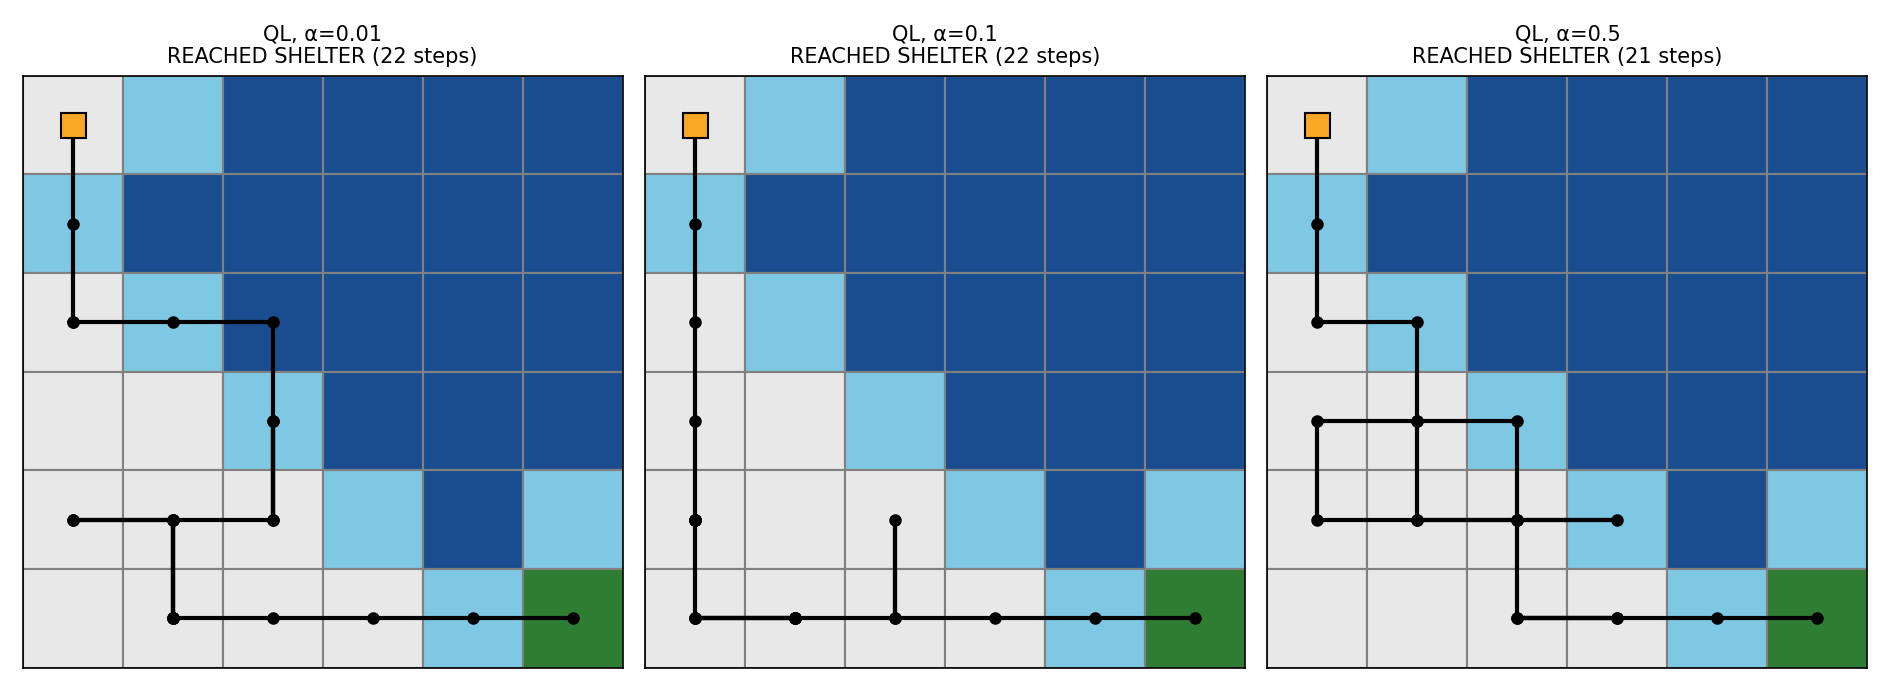
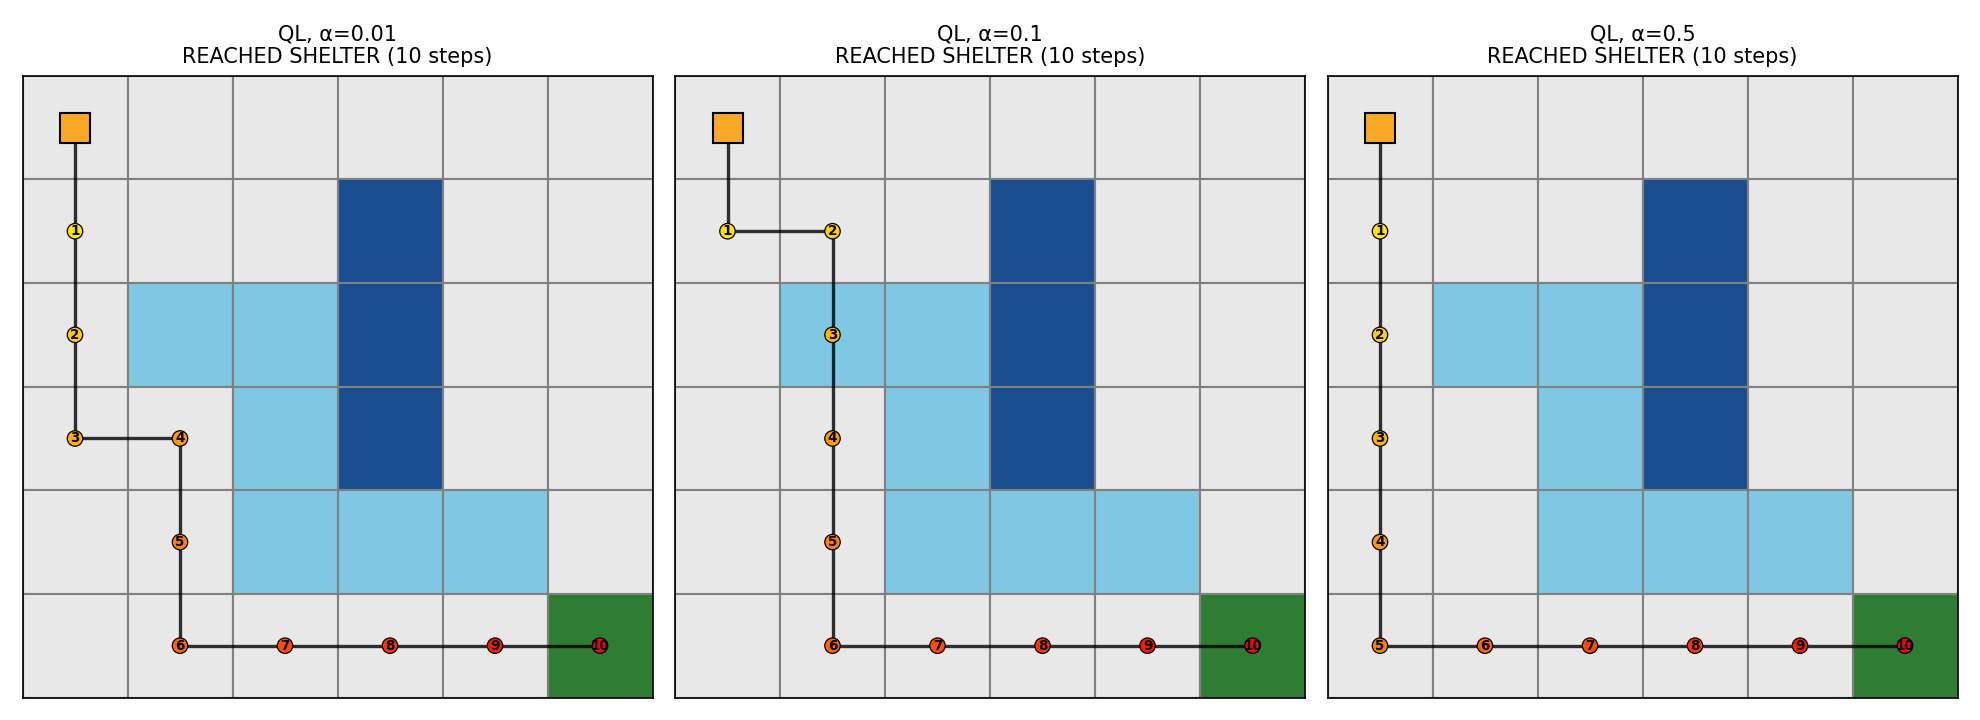
lab 4 start

diff --git a/lab/lab_4/flood_rescue_rl.py b/lab/lab_4/flood_rescue_rl.py
@@ -1,38 +1,34 @@
 """
-Flood Rescue GridWorld RL Assignment
---------------------------------------
-Problem: A rescue boat must navigate a 6x6 flooded neighborhood (inspired by
-Dhaka monsoon flooding) from a starting point to a shelter, while water
-keeps RISING the longer the agent takes.
+Static Flood Rescue GridWorld - RL Assignment
+-------------------------------------------------
+Scenario: A rescue boat must travel from a relief camp to an evacuation
+shelter across a flooded Dhaka neighborhood. Unlike a rising-flood version,
+the flood extent here is FIXED (static) - some cells are permanently deep
+water (impassable/dangerous), some are shallow water (passable but slower/
+riskier), and the rest are dry land. This keeps the environment a simple,
+standard, stationary MDP: state = just the boat's grid position.
 
-Environment design:
-- Grid: 6x6 cells
-- Start: top-left (0,0)  -> the rescue boat's launch point
-- Shelter (goal): bottom-right (5,5) -> reward +10, terminal, always safe
-- Flood source: a fixed cell where flooding originates
-- Flood grows outward by 1 "ring" (Manhattan distance) every timestep the
-  agent takes. So the flood_stage increases every action, capped at MAX_STAGE.
-- Cell types (computed from distance to flood source, given current stage):
-    deep water    -> distance <= stage   -> TERMINAL, reward -10 (boat capsizes)
-    shallow water -> distance == stage+1 -> reward -0.3 (passable but risky/slow)
-    dry land      -> otherwise            -> reward -0.04 (normal cost)
+Grid legend:
+    S = start (relief camp)
+    G = goal (evacuation shelter)
+    X = deep water (terminal, boat capsizes, reward -10)
+    ~ = shallow water (passable, reward -0.3)
+    . = dry land (passable, reward -0.04)
 
-State = (row, col, flood_stage)  -- this keeps the environment Markovian:
-given the current state and action, the next state and reward are fully
-determined (flood_stage always advances by exactly 1 per action, capped).
+  S . . . . .
+  . . ~ X ~ .
+  . ~ X X X ~
+  . ~ X X X ~
+  . . ~ X ~ .
+  . . . . . G
 
-Because flood_stage saturates at MAX_STAGE, this is a valid stationary MDP
-(no need for special finite-horizon handling) so normal discounted
-Value Iteration and normal Q-learning both apply directly.
-
-We compare Value Iteration and Q-Learning across different discount factors
-(gamma) and visualize the ACTUAL PATH each resulting policy takes from start
-to goal, plus how much of the grid is flooded by the time it gets there.
+We solve this MDP with Value Iteration and Q-Learning, and compare the
+results across different discount factors (gamma) and, for Q-learning,
+different learning rates (alpha).
 """
 
 import numpy as np
 import matplotlib.pyplot as plt
-import matplotlib.patches as mpatches
 import random
 
 # ---------------------------------------------------------
@@ -41,10 +37,24 @@ import random
 GRID_SIZE = 6
 START = (0, 0)
 GOAL = (5, 5)
-FLOOD_SOURCE = (1, 4)  # off the main diagonal, threatens a shortcut without ever reaching start/goal
-FLOOD_INTERVAL = 3    # flood advances by 1 ring every this many agent actions
-MAX_STAGE = 3         # flood radius caps here (source is distance 5 from both start & goal, so they stay dry)
-T_MAX = 20            # elapsed-steps counter saturates here (state stays finite)
+
+DEEP_WATER = {
+    (1, 3),
+    (2, 3),
+    (3, 3)
+}
+
+SHALLOW_WATER = {
+    (2, 1),
+    (2, 2),
+    (3, 2),
+    (4, 2),
+    (4, 3),
+    (4, 4)
+}
+
+# DEEP_WATER = {(1, 3), (2, 2), (2, 3), (2, 4), (3, 2), (3, 3), (3, 4), (4, 3)}
+# SHALLOW_WATER = {(1, 2), (1, 4), (2, 1), (2, 5), (3, 1), (3, 5), (4, 2), (4, 4)}
 
 ACTIONS = ["up", "down", "left", "right"]
 ACTION_MOVES = {
@@ -55,42 +65,27 @@ ACTION_MOVES = {
 }
 
 STEP_REWARD = -0.04
-SHALLOW_REWARD = -0.3
+SHALLOW_REWARD = -0.05 #0.3
 DEEP_REWARD = -10
 GOAL_REWARD = 10
 
 
-def manhattan(a, b):
-    return abs(a[0] - b[0]) + abs(a[1] - b[1])
-
-
-def stage_from_t(t):
-    return min(t // FLOOD_INTERVAL, MAX_STAGE)
-
-
-def cell_type(pos, t):
-    """Return 'deep', 'shallow', or 'dry' for a cell at a given elapsed-time t."""
+def cell_type(pos):
     if pos == GOAL:
         return "goal"
-    stage = stage_from_t(t)
-    d = manhattan(pos, FLOOD_SOURCE)
-    if d <= stage:
+    if pos in DEEP_WATER:
         return "deep"
-    elif d == stage + 1:
+    if pos in SHALLOW_WATER:
         return "shallow"
-    else:
-        return "dry"
+    return "dry"
 
 
 def all_states():
-    return [(r, c, t) for r in range(GRID_SIZE) for c in range(GRID_SIZE)
-            for t in range(T_MAX + 1)]
+    return [(r, c) for r in range(GRID_SIZE) for c in range(GRID_SIZE)]
 
 
 def is_terminal(state):
-    r, c, t = state
-    pos = (r, c)
-    return pos == GOAL or cell_type(pos, t) == "deep"
+    return state == GOAL or state in DEEP_WATER
 
 
 def step(state, action):
@@ -98,15 +93,14 @@ def step(state, action):
     if is_terminal(state):
         return state, 0
 
-    r, c, t = state
+    r, c = state
     dr, dc = ACTION_MOVES[action]
     nr, nc = r + dr, c + dc
     if nr < 0 or nr >= GRID_SIZE or nc < 0 or nc >= GRID_SIZE:
         nr, nc = r, c  # wall -> stay
 
-    next_t = min(t + 1, T_MAX)
-    next_pos = (nr, nc)
-    ctype = cell_type(next_pos, next_t)
+    next_state = (nr, nc)
+    ctype = cell_type(next_state)
 
     if ctype == "goal":
         reward = GOAL_REWARD
@@ -117,7 +111,7 @@ def step(state, action):
     else:
         reward = STEP_REWARD
 
-    return (nr, nc, next_t), reward
+    return next_state, reward
 
 
 # ---------------------------------------------------------
@@ -161,14 +155,18 @@ def value_iteration(gamma, theta=1e-4, max_iter=1000):
 
 
 # ---------------------------------------------------------
-# 3. Q-LEARNING
+# 3. Q-LEARNING (with epsilon-decay for cleaner convergence)
 # ---------------------------------------------------------
-def q_learning(gamma, alpha=0.1, epsilon=0.2, episodes=4000, max_steps=25):
+def q_learning(gamma, alpha=0.1, epsilon_start=0.3, epsilon_end=0.02,
+               episodes=3000, max_steps=25):
     Q = {(s, a): 0.0 for s in all_states() for a in ACTIONS}
     reward_history = []
 
     for ep in range(episodes):
-        s = (START[0], START[1], 0)
+        frac = ep / max(episodes - 1, 1)
+        epsilon = epsilon_start + (epsilon_end - epsilon_start) * frac
+
+        s = START
         total_reward = 0
         for t in range(max_steps):
             if random.random() < epsilon:
@@ -199,10 +197,10 @@ def q_learning(gamma, alpha=0.1, epsilon=0.2, episodes=4000, max_steps=25):
 
 
 # ---------------------------------------------------------
-# 4. PATH TRACING (follow greedy policy from start to goal/failure)
+# 4. PATH TRACING
 # ---------------------------------------------------------
 def trace_path(policy, max_steps=25):
-    s = (START[0], START[1], 0)
+    s = START
     path = [s]
     rewards = []
     for t in range(max_steps):
@@ -214,10 +212,9 @@ def trace_path(policy, max_steps=25):
         path.append(s_next)
         s = s_next
 
-    r, c, t_final = s
-    if (r, c) == GOAL:
+    if s == GOAL:
         outcome = "REACHED SHELTER"
-    elif cell_type((r, c), t_final) == "deep":
+    elif s in DEEP_WATER:
         outcome = "BOAT CAPSIZED (deep water)"
     else:
         outcome = "DID NOT FINISH (ran out of steps)"
@@ -235,63 +232,67 @@ COLOR_GOAL = "#2e7d32"
 COLOR_START = "#f9a825"
 
 
-def plot_flood_stages(filename):
-    # pick t values that land on each flood ring (t = stage * FLOOD_INTERVAL)
-    t_to_show = [0, FLOOD_INTERVAL * 1, FLOOD_INTERVAL * 2, FLOOD_INTERVAL * MAX_STAGE]
-    fig, axes = plt.subplots(1, len(t_to_show), figsize=(4 * len(t_to_show), 4.3))
-    for ax, t in zip(axes, t_to_show):
-        for r in range(GRID_SIZE):
-            for c in range(GRID_SIZE):
-                ctype = cell_type((r, c), t)
-                color = {"dry": COLOR_DRY, "shallow": COLOR_SHALLOW,
-                         "deep": COLOR_DEEP, "goal": COLOR_GOAL}[ctype]
-                if (r, c) == START:
-                    color = COLOR_START
-                ax.add_patch(plt.Rectangle((c, r), 1, 1, facecolor=color, edgecolor="gray"))
-        ax.set_xlim(0, GRID_SIZE)
-        ax.set_ylim(0, GRID_SIZE)
-        ax.invert_yaxis()
-        ax.set_title(f"After {t} steps (flood ring={stage_from_t(t)})", fontsize=10)
-        ax.set_xticks([])
-        ax.set_yticks([])
+def draw_grid(ax):
+    for r in range(GRID_SIZE):
+        for c in range(GRID_SIZE):
+            ctype = cell_type((r, c))
+            color = {"dry": COLOR_DRY, "shallow": COLOR_SHALLOW,
+                     "deep": COLOR_DEEP, "goal": COLOR_GOAL}[ctype]
+            ax.add_patch(plt.Rectangle((c, r), 1, 1, facecolor=color, edgecolor="gray"))
+    ax.set_xlim(0, GRID_SIZE)
+    ax.set_ylim(0, GRID_SIZE)
+    ax.invert_yaxis()
+    ax.set_xticks([])
+    ax.set_yticks([])
+
+
+def plot_static_map(filename):
+    fig, ax = plt.subplots(figsize=(5, 5))
+    draw_grid(ax)
+    ax.plot(START[1] + 0.5, START[0] + 0.5, marker="s", color=COLOR_START,
+            markersize=16, markeredgecolor="black", zorder=6)
+    ax.set_title("Flooded Neighborhood Map (static)")
+    import matplotlib.patches as mpatches
     patches = [
-        mpatches.Patch(color=COLOR_START, label="Start"),
+        mpatches.Patch(color=COLOR_START, label="Start (relief camp)"),
         mpatches.Patch(color=COLOR_DRY, label="Dry land"),
         mpatches.Patch(color=COLOR_SHALLOW, label="Shallow water"),
         mpatches.Patch(color=COLOR_DEEP, label="Deep water (danger)"),
         mpatches.Patch(color=COLOR_GOAL, label="Shelter (goal)"),
     ]
-    fig.legend(handles=patches, loc="lower center", ncol=5, fontsize=9)
-    plt.tight_layout(rect=[0, 0.06, 1, 1])
+    fig.legend(handles=patches, loc="lower center", ncol=2, fontsize=9)
+    plt.tight_layout(rect=[0, 0.14, 1, 1])
     plt.savefig(filename, dpi=150)
     plt.close()
     print(f"Saved: {filename}")
 
 
 def plot_paths(paths, titles, outcomes, filename):
-    fig, axes = plt.subplots(1, len(paths), figsize=(4.2 * len(paths), 4.6))
+    fig, axes = plt.subplots(1, len(paths), figsize=(4.4 * len(paths), 4.8))
     if len(paths) == 1:
         axes = [axes]
     for ax, path, title, outcome in zip(axes, paths, titles, outcomes):
-        final_t = path[-1][2]
-        for r in range(GRID_SIZE):
-            for c in range(GRID_SIZE):
-                ctype = cell_type((r, c), final_t)
-                color = {"dry": COLOR_DRY, "shallow": COLOR_SHALLOW,
-                         "deep": COLOR_DEEP, "goal": COLOR_GOAL}[ctype]
-                ax.add_patch(plt.Rectangle((c, r), 1, 1, facecolor=color, edgecolor="gray"))
+        draw_grid(ax)
 
-        xs = [p[1] + 0.5 for p in path]
-        ys = [p[0] + 0.5 for p in path]
-        ax.plot(xs, ys, color="black", linewidth=2, marker="o", markersize=5, zorder=5)
-        ax.plot(xs[0], ys[0], marker="s", color=COLOR_START, markersize=12,
+        visit_count = {}
+        xs, ys = [], []
+        for p in path:
+            n = visit_count.get(p, 0)
+            visit_count[p] = n + 1
+            offset_x = 0.12 * n * (1 if (p[0] + p[1]) % 2 == 0 else -1)
+            offset_y = 0.12 * n * (1 if p[0] % 2 == 0 else -1)
+            xs.append(p[1] + 0.5 + offset_x)
+            ys.append(p[0] + 0.5 + offset_y)
+
+        ax.plot(xs, ys, color="black", linewidth=1.6, zorder=4, alpha=0.8)
+        ax.scatter(xs, ys, c=range(len(xs)), cmap="autumn_r", s=55,
+                   edgecolors="black", linewidths=0.6, zorder=5)
+        for i, (x, y) in enumerate(zip(xs, ys)):
+            ax.annotate(str(i), (x, y), fontsize=6.5, ha="center", va="center",
+                        zorder=6, fontweight="bold")
+
+        ax.plot(xs[0], ys[0], marker="s", color=COLOR_START, markersize=14,
                 markeredgecolor="black", zorder=6)
-
-        ax.set_xlim(0, GRID_SIZE)
-        ax.set_ylim(0, GRID_SIZE)
-        ax.invert_yaxis()
-        ax.set_xticks([])
-        ax.set_yticks([])
         ax.set_title(f"{title}\n{outcome} ({len(path)-1} steps)", fontsize=10)
     plt.tight_layout()
     plt.savefig(filename, dpi=150)
@@ -320,7 +321,7 @@ if __name__ == "__main__":
     random.seed(0)
     np.random.seed(0)
 
-    plot_flood_stages("flood_stages.png")
+    plot_static_map("static_flood_map.png")
 
     gammas = [0.1, 0.5, 0.9, 0.99]
 
@@ -351,7 +352,7 @@ if __name__ == "__main__":
 
     ql_paths, ql_titles, ql_outcomes, ql_reward_histories = [], [], [], []
     for g in gammas:
-        Q, policy, reward_history = q_learning(gamma=g, alpha=0.1, epsilon=0.2, episodes=3000)
+        Q, policy, reward_history = q_learning(gamma=g, alpha=0.1, episodes=3000)
         path, total_r, outcome = trace_path(policy)
         print(f"gamma={g:<5} steps={len(path)-1:<4} total_reward={total_r:.2f}  outcome={outcome}")
         ql_paths.append(path)
@@ -377,7 +378,7 @@ if __name__ == "__main__":
     alphas = [0.01, 0.1, 0.5]
     alpha_paths, alpha_titles, alpha_outcomes, alpha_reward_histories = [], [], [], []
     for a in alphas:
-        Q, policy, reward_history = q_learning(gamma=0.9, alpha=a, epsilon=0.2, episodes=3000)
+        Q, policy, reward_history = q_learning(gamma=0.9, alpha=a, episodes=3000)
         path, total_r, outcome = trace_path(policy)
         print(f"alpha={a:<5} steps={len(path)-1:<4} total_reward={total_r:.2f}  outcome={outcome}")
         alpha_paths.append(path)

diff --git a/lab/lab_3/ACO_Flood_Relief_Bangladesh/aco_flood_relief_bd.py b/lab/lab_3/ACO_Flood_Relief_Bangladesh/aco_flood_relief_bd.py
@@ -232,8 +232,8 @@ def construct_solution():
 
         weights = []
         for n in neighbors:
-            tau = pheromone[current][n] ** ALPHA
-            eta = (1.0 / adj[current][n]["cost"]) ** BETA
+            tau = pheromone[current][n] ** ALPHA                    #pheromone^alpha
+            eta = (1.0 / adj[current][n]["cost"]) ** BETA           #heuristic^beta
             weights.append(tau * eta)
 
         total_w = sum(weights)
